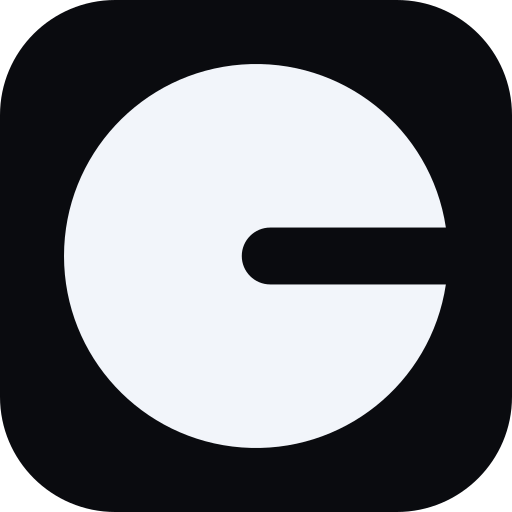
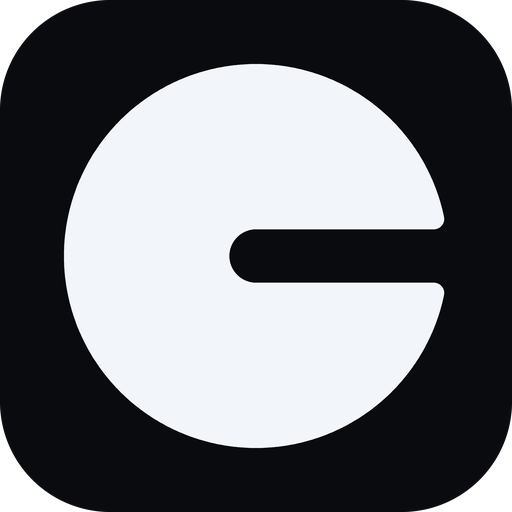
New brand mark: slot ends at the centre, rounded outer corners
Same geometry as the app (playthruu-app 957fbfb): BrandMark, the OG
image, icon.png and favicon.ico.

diff --git a/app/opengraph-image.tsx b/app/opengraph-image.tsx
@@ -23,7 +23,7 @@ export default async function Image() {
           <svg width="34" height="34" viewBox="0 0 120 120">
             <path
               fill="#F2F5FA"
-              d="M 113.4045,52 A 54,54 0 1,0 113.4045,68 L 64,68 A 8,8 0 0,1 64,52 Z"
+              d="M 110,52.5 L 60,52.5 A 7.5,7.5 0 0,0 60,67.5 L 110,67.5 A 2.9272,2.9272 0 0,1 112.8625,71.0248 A 54,54 0 1,1 112.8625,48.9752 A 2.9272,2.9272 0 0,1 110,52.5 Z"
             />
           </svg>
           <div style={{ display: "flex", fontSize: 24, fontWeight: 800, letterSpacing: "-0.01em", color: "#dfd8c4" }}>

diff --git a/components/BrandMark.tsx b/components/BrandMark.tsx
@@ -3,7 +3,7 @@ export default function BrandMark({ className }: { className?: string }) {
     <svg viewBox="0 0 120 120" className={className} aria-hidden="true">
       <path
         fill="#F2F5FA"
-        d="M 113.4045,52 A 54,54 0 1,0 113.4045,68 L 64,68 A 8,8 0 0,1 64,52 Z"
+        d="M 110,52.5 L 60,52.5 A 7.5,7.5 0 0,0 60,67.5 L 110,67.5 A 2.9272,2.9272 0 0,1 112.8625,71.0248 A 54,54 0 1,1 112.8625,48.9752 A 2.9272,2.9272 0 0,1 110,52.5 Z"
       />
     </svg>
   );
